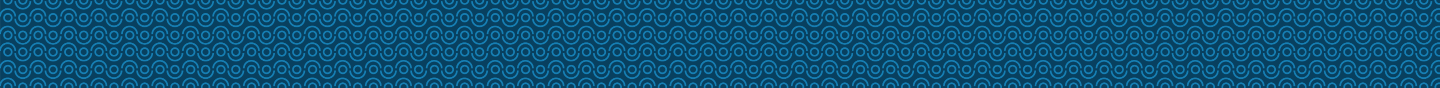
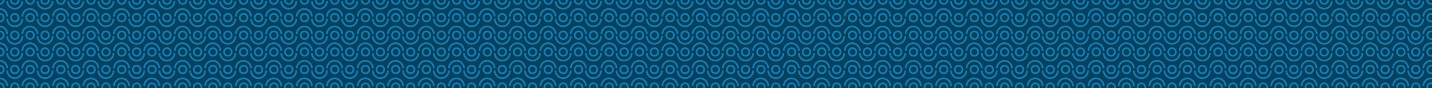
el footer tiene flex-direction column para ver si se despliega bien en el footer

diff --git a/css/style.css b/css/style.css
@@ -257,7 +257,9 @@ html{
     background-repeat: no-repeat;
     background-size: auto;
     height: 144px;
-
+    background-repeat-x: initial;
+    background-position-x: initial;
+    
 
     /**antes tebia 88px**/
 }
@@ -371,6 +373,7 @@ footer{
     z-index: 20;
     display: flex;
     justify-content: center;
+    flex-direction: column;
     
 }
 
